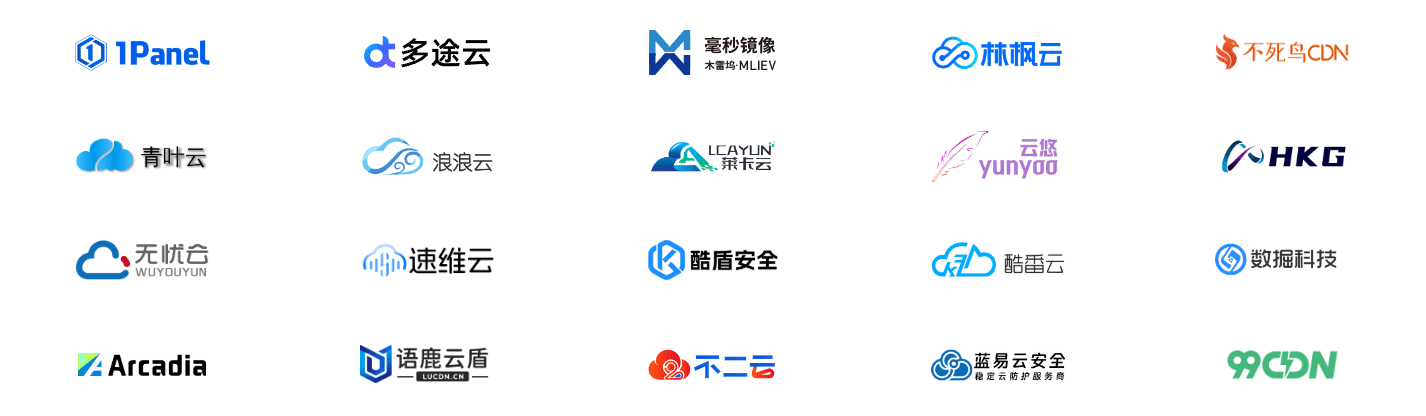
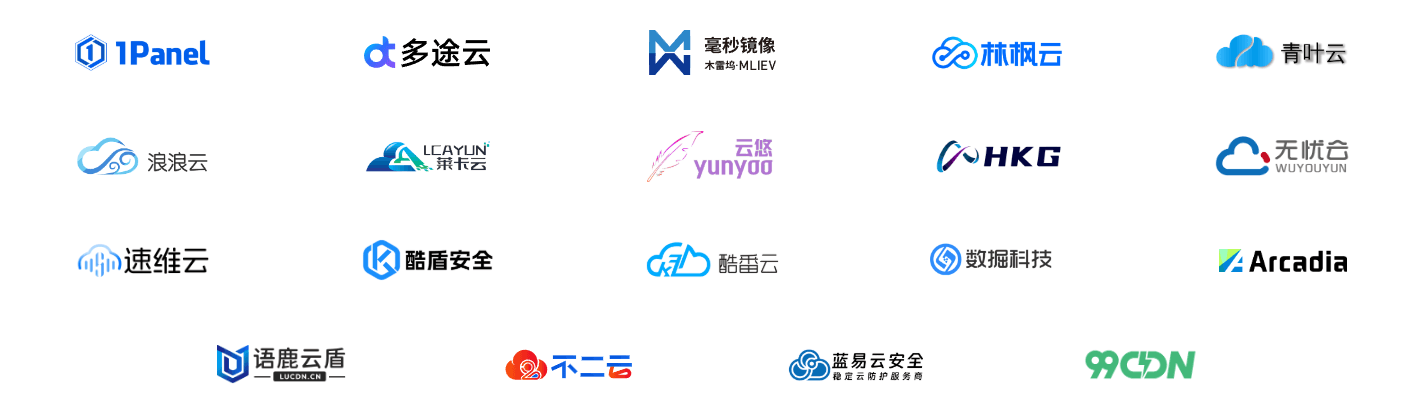
更新文档

diff --git a/docs/theme/partials/toc.html b/docs/theme/partials/toc.html
@@ -14,7 +14,7 @@
         <strong>{{'Sponsors' if i18n_page_locale == 'en' else '贊助商' if i18n_page_locale == 'zh-Hant' else '赞助商'}}</strong>
       </div>
       <div class="sponsor-wrapper sponsor-flex-wrapper-toc no-select">
-        <a class="sponsor-item sponsor-item-toc" target="_blank" rel="noopener noreferrer" href="https://1panel.cn" title="新一代的 Linux 服务器运维管理面板">
+        <a class="sponsor-item sponsor-item-toc sponsor-item-toc-full-row" target="_blank" rel="noopener noreferrer" href="https://1panel.cn" title="新一代的 Linux 服务器运维管理面板">
           <img src="/assets/images/sponsor/1panel.png" alt="1Panel" style="filter: grayscale(1) invert(0.6)" />
         </a>
         <a class="sponsor-item sponsor-item-toc" target="_blank" rel="noopener noreferrer" href="https://www.duotuyun.com" title="智能化防护，每一次连接皆在安全之下">
@@ -28,10 +28,6 @@
         <a class="sponsor-item sponsor-item-toc" target="_blank" rel="noopener noreferrer" href="https://www.dkdun.cn/aff/VAWGETUL" title="专注独立IP高频VPS｜R9/i9系列定制">
           <img src="/assets/images/sponsor/linfengyun.png#only-light" alt="林枫云" style="filter: grayscale(1) invert(0.6)" />
           <img src="/assets/images/sponsor/linfengyun.png#only-dark" alt="林枫云" style="filter: grayscale(1) invert(0.5)" />
-        </a>
-        <a class="sponsor-item sponsor-item-toc" target="_blank" rel="noopener noreferrer" href="https://bsncdn.ai" title="香港日本高防CDN，免实名/免备案，轻松阻断 DDOS / CC 攻击">
-          <img src="/assets/images/sponsor/businiaocdn.png#only-light" alt="不死鸟CDN" style="filter: grayscale(1) brightness(1)" />
-          <img src="/assets/images/sponsor/businiaocdn.png#only-dark" alt="不死鸟CDN" style="filter: grayscale(1) brightness(1.4)" />
         </a>
         <a class="sponsor-item sponsor-item-toc" target="_blank" rel="noopener noreferrer" href="https://www.qingyeyun.com" title="香港1T高防｜自助防火墙，无视CC｜大带宽回国优化线路">
           <img src="/assets/images/sponsor/qingyeyun-light.png#only-light" alt="青叶云" style="filter: grayscale(1) invert(0.4)" />

diff --git a/docs/sponsor/main.html b/docs/sponsor/main.html
@@ -20,10 +20,6 @@
       <!-- 27 11 1 -->
       <img src="/assets/images/sponsor/linfengyun.png" alt="林枫云" />
     </a>
-    <a class="sponsor-item sponsor-item-flex" target="_blank" rel="noopener noreferrer" href="https://bsncdn.ai" title="香港日本高防CDN，免实名/免备案，轻松阻断 DDOS / CC 攻击">
-      <!-- 26 8 17 -->
-      <img src="/assets/images/sponsor/businiaocdn.png" alt="不死鸟CDN" />
-    </a>
     <a class="sponsor-item sponsor-item-flex" target="_blank" rel="noopener noreferrer" href="https://www.qingyeyun.com" title="香港1T高防｜自助防火墙，无视CC｜大带宽回国优化线路">
       <!-- 26 8 18 -->
       <img src="/assets/images/sponsor/qingyeyun-light.png#only-light" alt="青叶云" />
@@ -86,7 +82,7 @@
       <img src="/assets/images/sponsor/bueryun.svg" alt="不二云" />
     </a>
     <a class="sponsor-item sponsor-item-flex" target="_blank" rel="noopener noreferrer" href="https://www.tsycdn.com" title="高防CDN，国内BGP多线/香港/死扛CC/DDos攻击">
-      <!-- 26 8 21 -->
+      <!-- 26 9 21 -->
       <img src="/assets/images/sponsor/lanyiyun-light.png#only-light" alt="蓝易云" />
       <img src="/assets/images/sponsor/lanyiyun-dark.png#only-dark" alt="蓝易云" />
     </a>
